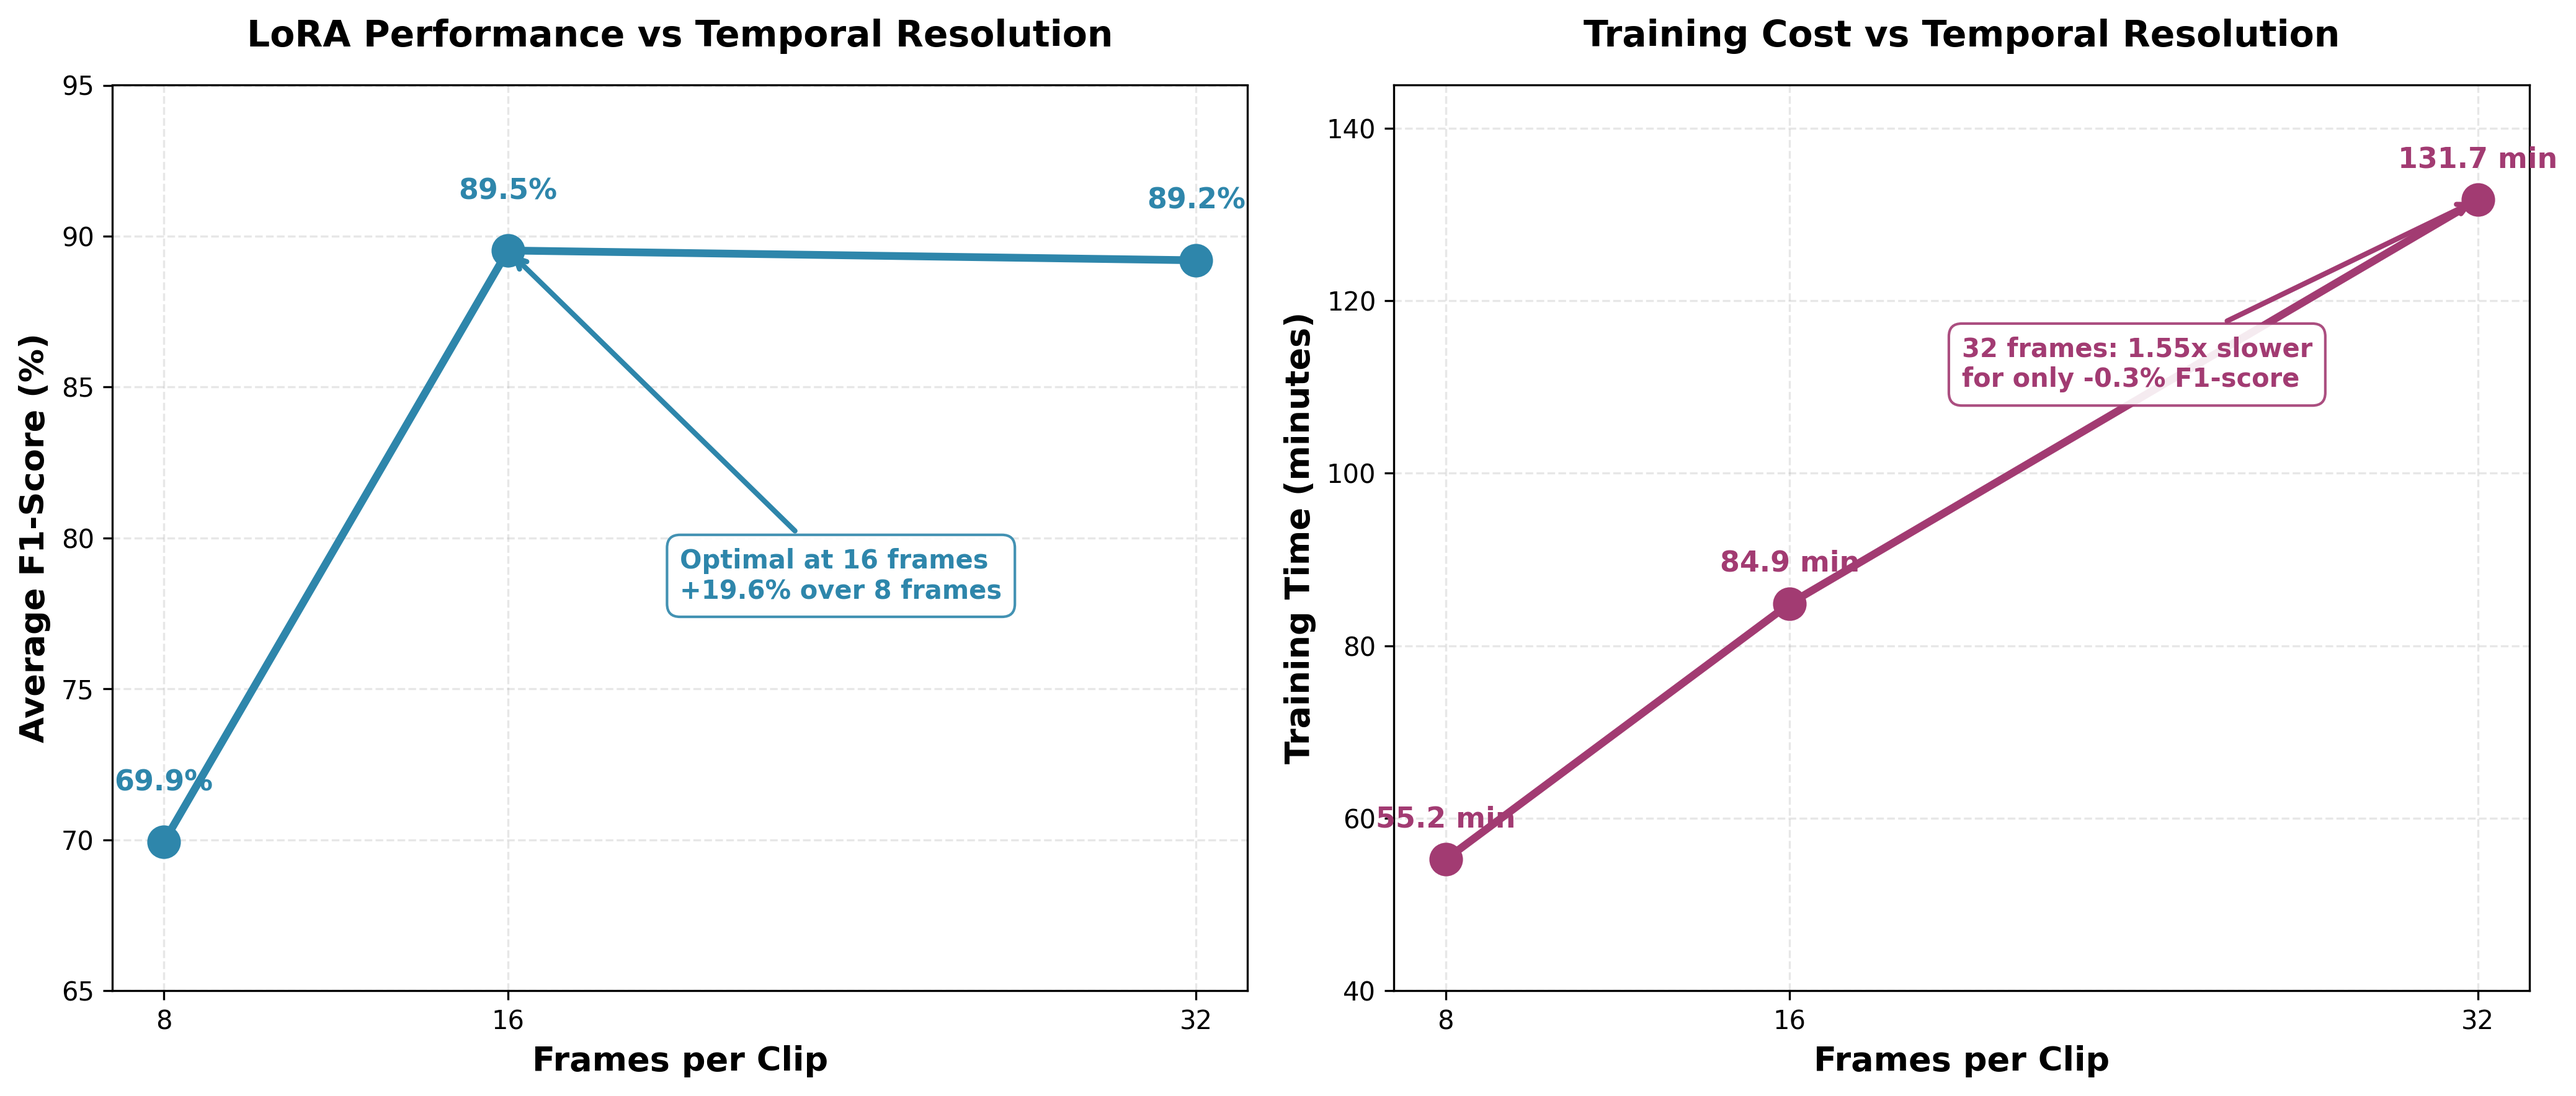
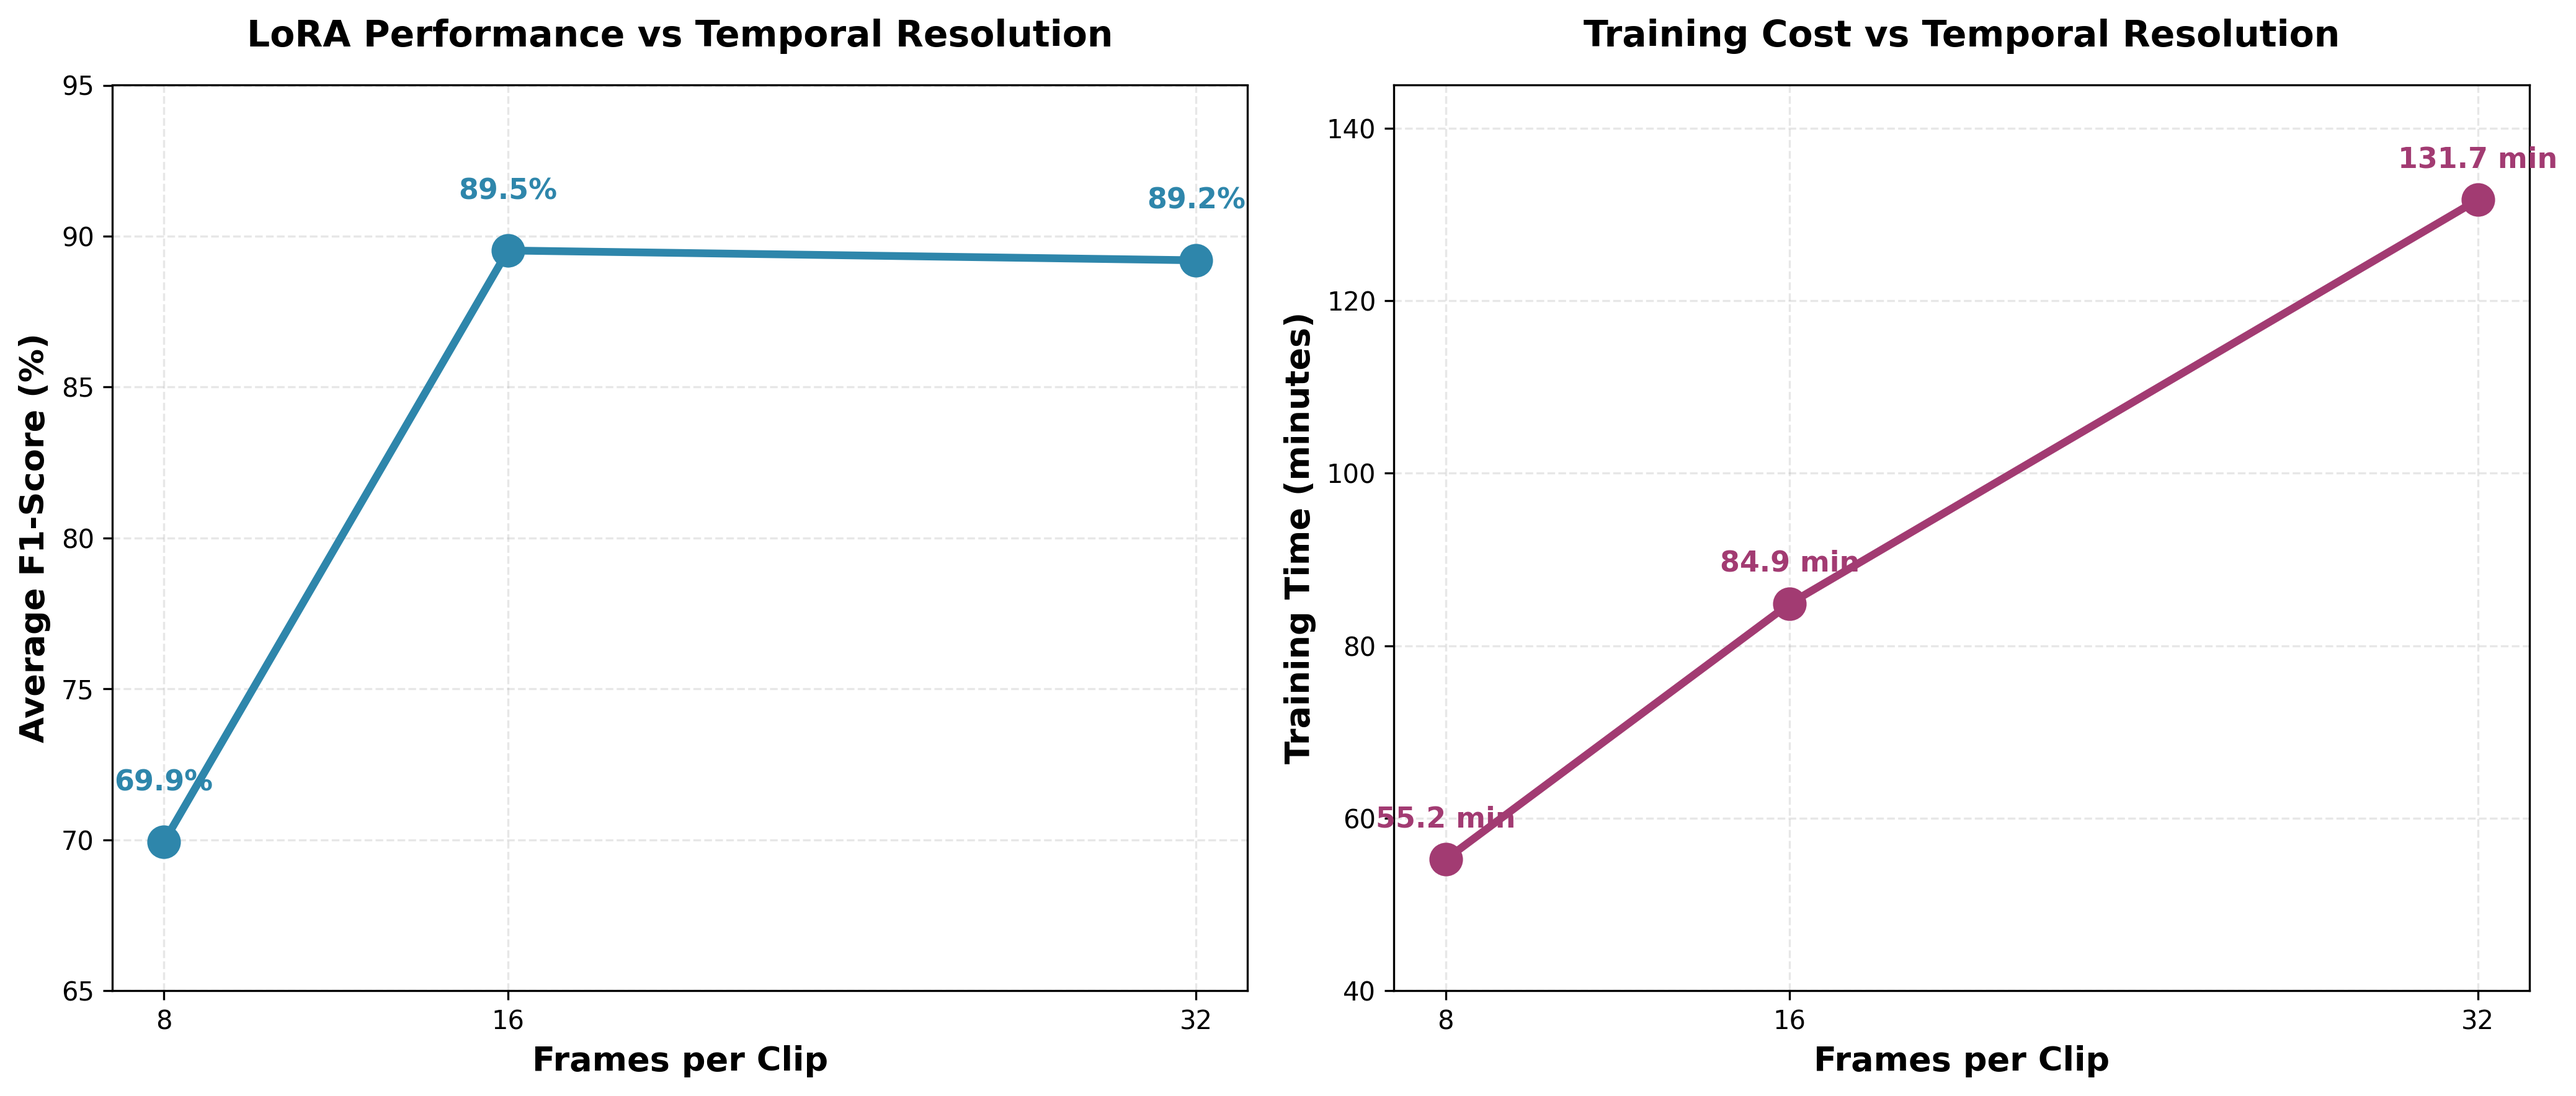
Remove annotation boxes from frames_comparison.png
Remove the annotation boxes to create a cleaner visualization:
- Removed "Optimal at 16 frames" annotation from left panel
- Removed "32 frames: 1.55x slower" annotation from right panel
- Keep only data point labels and clean grid layout

🤖 Generated with [Claude Code](https://claude.com/claude-code)

diff --git a/plot_frames_comparison.py b/plot_frames_comparison.py
@@ -46,13 +46,6 @@ for i, f in enumerate(frames):
     ax1.text(f, avg_f1[i]*100 + 1.5, f'{avg_f1[i]*100:.1f}%',
             ha='center', va='bottom', fontsize=11, fontweight='bold', color='#2E86AB')
 
-# Add annotation
-ax1.annotate('Optimal at 16 frames\n+19.6% over 8 frames',
-            xy=(16, avg_f1[1]*100), xytext=(20, 78),
-            fontsize=10, fontweight='bold', color='#2E86AB',
-            arrowprops=dict(arrowstyle='->', color='#2E86AB', lw=2),
-            bbox=dict(boxstyle='round,pad=0.5', facecolor='white', edgecolor='#2E86AB', alpha=0.9))
-
 # Plot 2: Training Time vs Frames
 ax2 = axes[1]
 ax2.plot(frames, training_time, 'o-', linewidth=3, markersize=12,
@@ -70,13 +63,6 @@ ax2.set_ylim([40, 145])
 for i, f in enumerate(frames):
     ax2.text(f, training_time[i] + 3, f'{training_time[i]:.1f} min',
             ha='center', va='bottom', fontsize=11, fontweight='bold', color='#A23B72')
-
-# Add annotation
-ax2.annotate('32 frames: 1.55x slower\nfor only -0.3% F1-score',
-            xy=(32, training_time[2]), xytext=(20, 110),
-            fontsize=10, fontweight='bold', color='#A23B72',
-            arrowprops=dict(arrowstyle='->', color='#A23B72', lw=2),
-            bbox=dict(boxstyle='round,pad=0.5', facecolor='white', edgecolor='#A23B72', alpha=0.9))
 
 plt.tight_layout()
 plt.savefig('frames_comparison.png', dpi=300, bbox_inches='tight')
